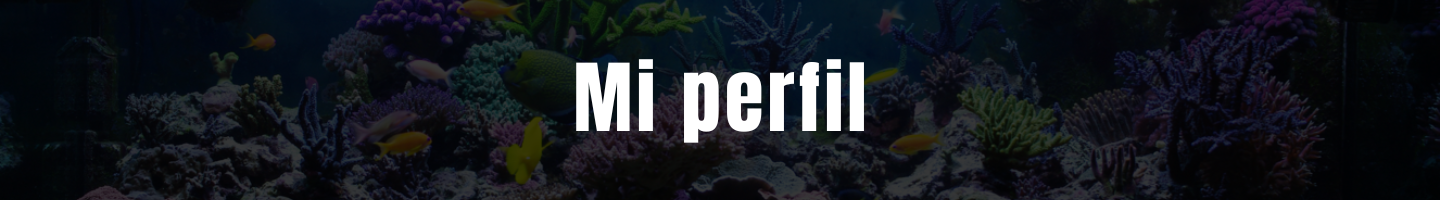
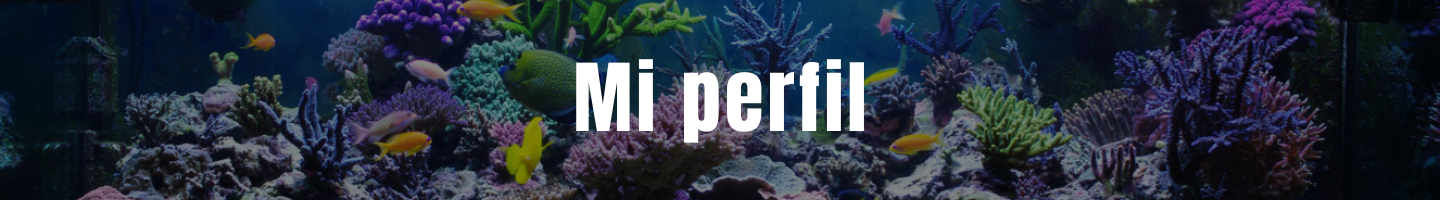
se realizaron cambios ultimo dia

diff --git a/src/pages/Shop.jsx b/src/pages/Shop.jsx
@@ -200,7 +200,7 @@ function Shop() {
             </div>
             <div className="flex justify-center">
                 <div className="flex pr-3 pl-3 py-5 gap-5 flex-wrap min-h-3/5 w-[1440px] justify-center sm:pt-3">
-                    <div className="flex flex-col gap-4 w-[25%] sm:w-full md:h-[28rem] lg:h-[30rem] border-[3px] bg-gray-900 p-1 rounded-xl border-gray-900 justify-center md:sticky md:top-5 sm:gap-2">
+                    <div className="flex flex-col gap-4 w-[25%] sm:w-full md:h-[28rem] lg:h-[30rem] border-[3px] bg-gray-900 p-1 rounded-xl border-gray-900 justify-center md:sticky md:top-[6.3rem] sm:gap-2">
                         <div className="flex justify-center">
                             <h1 className="font-bold text-white text-2xl">Filtros</h1>
                         </div>
@@ -220,17 +220,17 @@ function Shop() {
                                 />
                             </div>
                         </div>
-                            <div>
-                                <PriceFilter
-                                    minPrice={minPriceFilter}
-                                    maxPrice={maxPriceFilter}
-                                    onMinPriceChange={handleMinPriceChange}
-                                    onMaxPriceChange={handleMaxPriceChange}
-                                />
-                            </div>
-                            <div>
-                                <DiscountFilter onDiscountChange={handleDiscountChange} />
-                            </div>
+                        <div>
+                            <PriceFilter
+                                minPrice={minPriceFilter}
+                                maxPrice={maxPriceFilter}
+                                onMinPriceChange={handleMinPriceChange}
+                                onMaxPriceChange={handleMaxPriceChange}
+                            />
+                        </div>
+                        <div>
+                            <DiscountFilter onDiscountChange={handleDiscountChange} />
+                        </div>
                         <div className="flex justify-center gap-3 sm:mb-2">
                             <button
                                 className="border border-gray-700 bg-gray-900 text-gray-200 px-4 py-3 rounded-md sm:px-3 sm:py-1"
@@ -248,33 +248,43 @@ function Shop() {
                         </div>
                         <div className="w-full">
                             <div className="grid grid-cols-1 lg:grid-cols-3 gap-4 mt-5 md:grid-cols-2">
-                                {filteredProducts.map((product) => (
-                                    <div
-                                        key={product.id}
-                                        className="bg-white rounded-lg shadow-lg p-4"
-                                    >
-                                        <img
-                                            src={product.image}
-                                            alt={product.name}
-                                            className="w-full h-48 object-cover mb-4 rounded-lg"
-                                        />
-                                        <h2 className="text-xl font-bold">{product.name}</h2>
-                                        <p className="text-gray-600">{product.description}</p>
-                                        <div className="mt-4 flex flex-wrap justify-between items-center">
-                                            <span className="text-gray-800 font-bold">
-                                                {product.finalPrice.toLocaleString("en-US", {
-                                                    style: "currency",
-                                                    currency: "USD",
-                                                })}
-                                            </span>
-                                            <Link to={`/productdetails/${product.productoDTOID}`}>
-                                                <button className="ml-2 bg-gray-900 hover:bg-blue-700 text-white font-bold py-2 px-4 rounded-lg">
-                                                    Ver Detalle
-                                                </button>
-                                            </Link>
+                                {filteredProducts.map(product => {
+                                    const discountedPrice = product.finalPrice - (product.finalPrice * (product.promos / 100));
+
+                                    return (
+                                        <div key={product.id} className="relative bg-white rounded-lg shadow-lg p-4">
+                                            {product.promos !== 0 && (
+                                                <div className="absolute rounded top-1 right-1 bg-[#A62190] text-white text-xs font-bold py-1 px-2 rounded-tr-lg">
+                                                    {product.promos}% OFF
+                                                </div>
+                                            )}
+                                            <img src={product.image} alt={product.name} className="w-full h-48 object-cover mb-4 rounded-lg" />
+                                            <h2 className="text-xl font-bold">{product.name}</h2>
+                                            <p className="text-gray-600">{product.description}</p>
+                                            <div className="mt-4 flex flex-wrap justify-between items-center">
+                                                <div className="flex flex-col">
+                                                    {product.promos !== 0 ? (
+                                                        <>
+                                                            <span className="text-gray-400 text-sm line-through">{product.finalPrice.toLocaleString('en-US', { style: 'currency', currency: 'USD' })}</span>
+                                                            <span className="text-gray-800 font-bold">
+                                                                {discountedPrice.toLocaleString('en-US', { style: 'currency', currency: 'USD' })}
+                                                            </span>
+                                                        </>
+                                                    ) : (
+                                                        <span className="text-gray-800 font-bold">
+                                                            {product.finalPrice.toLocaleString('en-US', { style: 'currency', currency: 'USD' })}
+                                                        </span>
+                                                    )}
+                                                </div>
+                                                <Link to={`/productdetails/${product.productoDTOID}`}>
+                                                    <button className="ml-2 bg-gray-900 hover:bg-blue-700 text-white font-bold py-2 px-4 rounded-lg">
+                                                        Ver Detalle
+                                                    </button>
+                                                </Link>
+                                            </div>
                                         </div>
-                                    </div>
-                                ))}
+                                    );
+                                })}
                             </div>
                         </div>
                     </div>

diff --git a/src/pages/Home.jsx b/src/pages/Home.jsx
@@ -1,28 +1,102 @@
-import React from 'react'
-import fondoImg from "../assets/fondo3.png"
-import Cards from '../components/Cards'
-
+import React from "react";
+import Cards from "../components/Cards";
 
 const Home = () => {
     return (
         <>
-        <main className='bg-white fondo'>
-            {/* <img className='' src={fondoImg} alt="" /> */}
-            <div className='relative top-80 left-96'>
-                <a href="/shop">
-                    <button className='px-7 mx-2 py-3 text-white bg-[#A62190] rounded-full font-bold shadow-md'>Tienda</button>
-                </a>
-                <a href="#">
-                    <button className='px-7 mx-2 py-3 text-white bg-gray-900 rounded-full font-bold shadow-md'>Ofertas</button>
-                </a>
-            </div>
-            <div className="container mx-auto py-8 posicion">
-                    <h1 className="text-3xl font-bold text-center mb-8 text-white">Productos Destacados</h1>
-                    <Cards/>
-            </div>
-        </main>
+            <main className="bg-white fondo">
+                {/* <img className='' src={fondoImg} alt="" /> */}
+                <div className="relative md:top-80 md:left-96 sm:top-80 sm:left-28">
+                    <a href="/shop">
+                        <button className="px-7 mx-2 py-3 text-white bg-[#A62190] rounded-full font-bold shadow-md">
+                            Tienda
+                        </button>
+                    </a>
+                    <a href="#">
+                        <button className="px-7 mx-2 py-3 text-white bg-gray-900 rounded-full font-bold shadow-md">
+                            Ofertas
+                        </button>
+                    </a>
+                </div>
+                <div className="container mx-auto py-8 posicion">
+                    <h1 className="text-3xl font-bold text-center mb-8 text-white">
+                        Productos Destacados
+                    </h1>
+                    <Cards />
+                </div>
+            </main>
+            <section class="text-gray-600">
+                <div class="container px-5 py-8 pb-12 mx-auto">
+                    <div class="flex flex-wrap w-full mb-[3rem] flex-col items-center text-center">
+                        <h1 class="sm:text-3xl text-3xl font-bold title-font mb-2 text-gray-900">
+                            Nuestros servicios
+                        </h1>
+                        <p class="lg:w-1/2 w-full leading-relaxed text-gray-700">
+                            Aparte de ser una excelente tienda online, nos
+                            enfocamos en brindar unos excelentes servicios, de
+                            la mejor forma posible.
+                        </p>
+                    </div>
+                    <div class="flex flex-wrap -m-4">
+                        <div class="xl:w-1/3 md:w-1/2 p-4">
+                            <div class="border border-gray-200 p-6 rounded-lg">
+                                <div class="w-10 h-10 inline-flex items-center justify-center rounded-full bg-indigo-100 text-indigo-500 mb-4">
+                                    <img
+                                        src="../public/limpiezaLogo.png"
+                                        alt=""
+                                    />
+                                </div>
+                                <h2 class="text-lg text-gray-900 font-medium title-font mb-2">
+                                    Limpieza de Acuarios
+                                </h2>
+                                <p class="leading-relaxed text-base">
+                                    Ofrecemos la limpieza y mantenimiento
+                                    regular de acuarios domésticos o comerciales
+                                    para garantizar un entorno saludable y
+                                    equilibrado para los peces y otras criaturas
+                                    acuáticas.
+                                </p>
+                            </div>
+                        </div>
+                        <div class="xl:w-1/3 md:w-1/2 p-4">
+                            <div class="border border-gray-200 p-6 rounded-lg">
+                                <div class="w-10 h-10 inline-flex items-center justify-center rounded-full bg-indigo-100 text-indigo-500 mb-4">
+                                    <img src="../public/acuarioLogo.png" alt="" />
+                                </div>
+                                <h2 class="text-lg text-gray-900 font-medium title-font mb-2">
+                                    Fabricacion de Acuarios
+                                </h2>
+                                <p class="leading-relaxed text-base">
+                                    Ofrecemos el servicio de fabricación de
+                                    acuarios a medida. Diseños personalizado
+                                    hasta la construcción experta, nos
+                                    encargamos de crear acuarios de calidad, que
+                                    se adaptan perfectamente a tus necesidades y
+                                    preferencias.
+                                </p>
+                            </div>
+                        </div>
+                        <div class="xl:w-1/3 md:w-1/2 p-4">
+                            <div class="border border-gray-200 p-6 rounded-lg">
+                                <div class="w-10 h-10 inline-flex items-center justify-center rounded-full bg-indigo-100 text-indigo-500 mb-4">
+                                    <img src="../public/tapaLogo.png" alt="" />
+                                </div>
+                                <h2 class="text-lg text-gray-900 font-medium title-font mb-2">
+                                    Fabricacion de Tapas Acrilicas
+                                </h2>
+                                <p class="leading-relaxed text-base">
+                                    Ofrecemos el servicio de fabricación de
+                                    tapas para acuarios a medida. nos encargamos
+                                    de crear tapas de calidad, con un excelente
+                                    maaterial, que se adaptan perfectamente a
+                                    tus necesidades y preferencias.
+                                </p>
+                            </div>
+                        </div>
+                    </div>
+                </div>
+            </section>
         </>
-    )
-   
-}
-export default Home
+    );
+};
+export default Home;

diff --git a/src/components/Cards.jsx b/src/components/Cards.jsx
@@ -14,25 +14,59 @@ const Cards = () => {
                 console.error('Error fetching products:', error);
             });
     }, []);
-    return (
-        <div className="grid grid-cols-3 gap-4">
-            {products.map(product => (
-                <div key={product.id} className="bg-white rounded-lg shadow-lg p-4">
-                    <img src={product.image} alt={product.name} className="w-full h-48 object-cover mb-4 rounded-lg" />
-                    <h2 className="text-xl font-bold">{product.name}</h2>
-                    <p className="text-gray-600">{product.description}</p>
-                    <div className="mt-4 flex flex-wrap justify-between items-center">
-                        <span className="text-gray-800 font-bold">{product.finalPrice.toLocaleString( 'en-US', { style:'currency', currency:'USD' } )}</span>
-                        <Link to={`/productdetails/${product.productoDTOID}`}>
-                            <button className="ml-2 bg-gray-900 hover:bg-blue-700 text-white font-bold py-2 px-4 rounded-lg">
-                                Ver Detalle
-                            </button>
-                        </Link>
-                    </div>
-                </div>
-            ))}
+
+    const limitedProducts = products.slice(0, 6);
+
+    const DiscountBadge = ({ percentage }) => (
+        <div className="absolute top-0 right-0 bg-yellow-400 text-white text-xs font-bold py-1 px-2 rounded-tr-lg">
+          {percentage}% OFF
         </div>
-    );
+      );
+      
+
+      return (
+        <div className="grid grid-cols-3 gap-4 sm:grid-cols-1   ">
+          {limitedProducts.map(product => {
+            const discountedPrice = product.finalPrice - (product.finalPrice * (product.promos / 100));
+      
+            return (
+              <div key={product.id} className="relative bg-white rounded-lg shadow-lg p-4">
+                {product.promos !== 0 && (
+                  <div className="absolute rounded top-1 right-1 bg-[#A62190] text-white text-xs font-bold py-1 px-2 rounded-tr-lg">
+                    {product.promos}% OFF
+                  </div>
+                )}
+                <img src={product.image} alt={product.name} className="w-full h-48 object-cover mb-4 rounded-lg" />
+                <h2 className="text-xl font-bold">{product.name}</h2>
+                <p className="text-gray-600">{product.description}</p>
+                <div className="mt-4 flex flex-wrap justify-between items-center">
+                  <div className="flex flex-col">
+                    {product.promos !== 0 ? (
+                      <>
+                        <span className="text-gray-400 text-sm line-through">{product.finalPrice.toLocaleString('en-US', { style: 'currency', currency: 'USD' })}</span>
+                        <span className="text-gray-800 font-bold">
+                          {discountedPrice.toLocaleString('en-US', { style: 'currency', currency: 'USD' })}
+                        </span>
+                      </>
+                    ) : (
+                      <span className="text-gray-800 font-bold">
+                        {product.finalPrice.toLocaleString('en-US', { style: 'currency', currency: 'USD' })}
+                      </span>
+                    )}
+                  </div>
+                  <Link to={`/productdetails/${product.productoDTOID}`}>
+                    <button className="ml-2 bg-gray-900 hover:bg-blue-700 text-white font-bold py-2 px-4 rounded-lg">
+                      Ver Detalle
+                    </button>
+                  </Link>
+                </div>
+              </div>
+            );
+          })}
+        </div>
+      );
+      
 };
 
 export default Cards;
+

diff --git a/src/pages/Cart.jsx b/src/pages/Cart.jsx
@@ -97,15 +97,6 @@ function Cart() {
           <p>
             {"Total: "+ item.finalPrice * (1-item.promos/100) * quantities[index]} 
           </p>
-       
-
-<<<<<<< HEAD
-        <button onClick={() => removeFromCart(index)}>Remove</button>
-      </li>
-      ))}
-    </ul>
-</div>
-=======
       <button onClick={() => removeFromCart(index)}>Remove</button>
     </li>
   ))}
@@ -128,8 +119,6 @@ function Cart() {
           <option value="DEBIT" selected>DEBIT</option>
           <option value= "CREDIT">CREDIT</option>
         </select>
-      
->>>>>>> bc03eaeca7609d77edbaa38bb444999043109145
       </div>
         <div className='flex flex-col justify-center items-start gap-5'>
           <div className='flex gap-5'>

diff --git a/src/components/Header.jsx b/src/components/Header.jsx
@@ -11,7 +11,7 @@ function Header() {
     
     return (
         <>
-        <div className="relative shadow bg-gray-900 md:flex md:justify-around ">
+        <div className="relative shadow bg-gray-900 md:flex md:justify-around md:sticky md:top-0 md:z-50">
             <div className="px-6 py-4 md:flex md:justify-between md:items-center">
                 <div className="flex items-center justify-between">
                     <a href="#">

diff --git a/src/index.css b/src/index.css
@@ -9,7 +9,7 @@
   box-sizing: border-box;
 }
 .fondo {
-  background-image: url(./assets/fondo3.png);
+  background-image: url(./public/fondo3.png);
   background-size: cover;
   width: 100%;
   margin-bottom: 400px;
@@ -30,4 +30,10 @@
   background-repeat: no-repeat;
   filter: blur(3px) brightness(100%) contrast(90%); 
   z-index: -1;
+}
+
+@media (max-width: 410px) {
+  .fondo {
+    background-position: left -10rem;
+  }
 }
